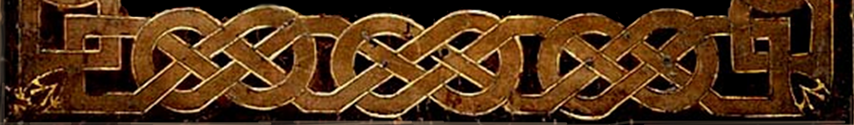
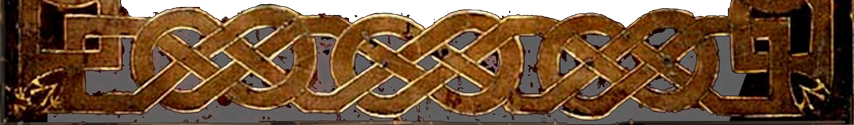
Repeater broken

diff --git a/sheet.html b/sheet.html
@@ -22,20 +22,37 @@
     html {
         font-family:"textFont", sans-serif;
         font-size: 50px;
+        line-height: 30px;
         color: white;
         -webkit-font-smoothing: antialiased;
         font-smooth:always;
     }
-    #bg {
-        background-image: url(top.png), url(repeat.png);
-        background-repeat: no-repeat, repeat-y;
-        background-size: 854px 957px, auto;
-        background-attachment: scroll, scroll;
-        background-position: 0px 0px, 0px 106px;
+    body {
+        background-color: black;
+        background-image: url(bg.png);
+        background-repeat: no-repeat;
+        background-attachment: fixed;
+        background-position: center 112px;
+        margin: 0;
+    }
+    #top {
+        background: url(top.png) no-repeat scroll;
+        background-size: 854px 957px;
+        background-position: 0 0;
         width: 854px;
         margin: 0 auto 0 auto;
+        position: relative;
     }
-    #bg-bot {
+    #repeat {
+        background: url(repeat.png) repeat-y scroll;
+        background-size: auto;
+        position: absolute;
+        top: 957px;
+        bottom: 0;
+        left: 0;
+        right: 0;
+    }
+    #bot {
         background-image: url(bot.png);
         background-repeat: no-repeat;
         background-attachment: scroll;
@@ -52,7 +69,7 @@
         font-size: inherit;
         color: inherit;
         margin: 0;
-        padding: 0;
+        padding: 0 !important;
         overflow-x: visible;
         width: 10px;
     }
@@ -65,20 +82,51 @@
         font-size: inherit;
         color: inherit;
         margin: 0;
-        padding: 0;
+        padding: 0 !important;
         overflow-x: visible;
         width: 100%;
         resize: none;
+        line-height: inherit;
     }
     h1 {
-        font-family: "titleFont";
+        font-family:"titleFont";
         font-size: 30px;
         font-weight: normal;
     }
     h2 {
-        font-family: "titleFont";
-        font-size: 20px;
+        font-family:"titleFont";
+        font-size: 16px;
         font-weight: normal;
+        margin: 0;
+    }
+    h3 {
+        font-family:"titleFont";
+        font-size: 12px;
+        font-weight: normal;
+        margin: 0;
+    }
+    label {
+        font-family:"titleFont";
+        font-size: 12px;
+        vertical-align: middle;
+    }
+    label input {
+        font-family:"textFont";
+        font-size: 40px;
+        vertical-align: middle;
+    }
+    .characteristics {
+        width: 40%;
+        float: left;
+    }
+    .characteristics label {
+        display: inline-block;
+        width: 100%;
+        position: relative;
+    }
+    .characteristics label>input {
+        position: absolute;
+        right: 0px;
     }
     </style>
 
@@ -90,27 +138,56 @@
 
 </head>
 
-<body ng-app="Sheet" style="background-color: black">
-    <div id="bg" resizes-to-fit-bg>
+<body ng-app="Sheet">
+    <div id="top" resizes-to-fit-bg>
         <div style="padding:150px 150px 0 150px; height: 100%">
-            <div style="position:relative; height: 130px">
+            <div style="position:relative; height: 120px">
                 <h1>
                     <input type="text" placeholder="Rollpersonens namn" value="Joar Stenhamn" style="min-width: 320px" />
                 </h1>
-                <label style="position: absolute; bottom: 0; right: 0">Spelare:
-                    <input type="text" placeholder="Namn" value="" style="min-width: 65px" />
+                <label style="font-size: 14px; position: absolute; bottom: 0; right: 0;">Spelare:
+                    <input type="text" placeholder="Namn" value="Richard Hermanson" style="min-width: 65px; font-size: 60px" />
                 </label>
             </div>
-            <h2 style="margin: -30px 0 -30px 0">Beskrivning</h2>
-            <textarea style="height: 500px" placeholder="Karaktärsbeskrivning">&nbsp;
-Min karaktärsbeskrivning börjar här
-och fortsätter...</textarea>
-
-
-
+            <div>
+                <h2 style="margin: -30px 0 0 0">Beskrivning</h2>
+                <textarea style="margin: 4px 4px 20px 4px;" placeholder="Karaktärsbeskrivning" autocomplete="off" autocorrect="off" autocapitalize="off" spellcheck="false">Min karaktärsbeskrivning följer efter denna text och den fortsätter och forrtsättter tills det blir ny rad och då ser vi vad som händer. Med alla mina rader.</textarea>
+            </div>
+            <div style="clear: both">
+                <div class="characteristics" style="width: 40%; float: left">
+                    <h2>Karaktäriseringar</h2>
+                    <div>
+                        <label>Fysik
+                            <input type="text" placeholder="" value="***" />
+                        </label>
+                    </div>
+                    <div>
+                        <label>Psyke
+                            <input type="text" placeholder="" value="**" />
+                        </label>
+                    </div>
+                    <div>
+                        <label>Smidighet
+                            <input type="text" placeholder="" value="*****" />
+                        </label>
+                    </div>
+                </div>
+            </div>
+            <div style="width: 60%; float: right; text-align: right">
+                <h2>Äventyrspoäng</h2>
+                <label>Totalt
+                    <input type="text" placeholder="" value="67" style="min-width: 60px" />
+                </label>
+                <label style="text-align: right">Nya
+                    <input type="text" placeholder="" value="10" style="min-width: 10px" />
+                </label>
+            </div>
         </div>
+
     </div>
-    <div id="bg-bot"></div>
+    <div id="repeat"></div>
+    </div>
+    <div id="bot"></div>
 
     <script type="text/javascript">
     angular.module("Sheet", [])
@@ -160,12 +237,17 @@ och fortsätter...</textarea>
 
                         function resetHeight() {
                             element.css("height", 0);
-                            $interval(setHeight, 10, 20)
+                            $interval(setHeight, 10, 20);
                         }
 
                         resetHeight();
 
                         element.on("input", function() {
+                            setHeight();
+                            e.defaultValue = e.value;
+                        });
+
+                        element.on("change", function() {
                             resetHeight();
                             e.defaultValue = e.value;
                         });
@@ -189,7 +271,7 @@ och fortsätter...</textarea>
                             var height = e.clientHeight;
 
                             if (height <= topHeight) {
-                                e.style.minHeight = (topHeight+repeatHeight) + "px";
+                                e.style.minHeight = (topHeight + repeatHeight) + "px";
                             } else {
                                 var extraHeight = height - topHeight;
                                 var extra = extraHeight / repeatHeight;

diff --git a/test.html b/test.html
@@ -1,0 +1,54 @@
+<!DOCTYPE html>
+<html>
+
+<head>
+
+    <title>Sheet</title>
+    <meta charset="utf-8" />
+
+    <style>
+    body {
+        background-color: black;
+        background-image: ;
+        background-repeat: no-repeat;
+        background-attachment: fixed;
+        background-position: center 0px;
+    }
+
+    #bg {
+        background: url(top.png) no-repeat scroll, url(repeat.png) repeat-y scroll, url(bg.png) no-repeat scroll;
+        background-size: 854px 957px, auto, auto;
+        background-position: 0 0, 0px 106px, 0 0;
+        background-color: transparent, transparent, transparent;
+        width: 854px;
+        margin: 0 auto 0 auto;
+    }
+
+
+    </style>
+
+
+</head>
+
+<body>
+    <div id="bg" style="margin-top: 150px">
+    TEST TEST   <br>
+    TEST TEST   <br>
+    TEST TEST   <br>
+    TEST TEST   <br>
+    TEST TEST   <br>TEST TEST   <br>
+    TEST TEST   <br>
+    TEST TEST   <br>TEST TEST   <br>
+    TEST TEST   <br>
+     TEST TEST   <br>
+      TEST TEST   <br>
+       TEST TEST   <br>
+        TEST TEST   <br>
+
+         TEST TEST   <br>
+
+    </div>
+
+</body>
+
+</html>
